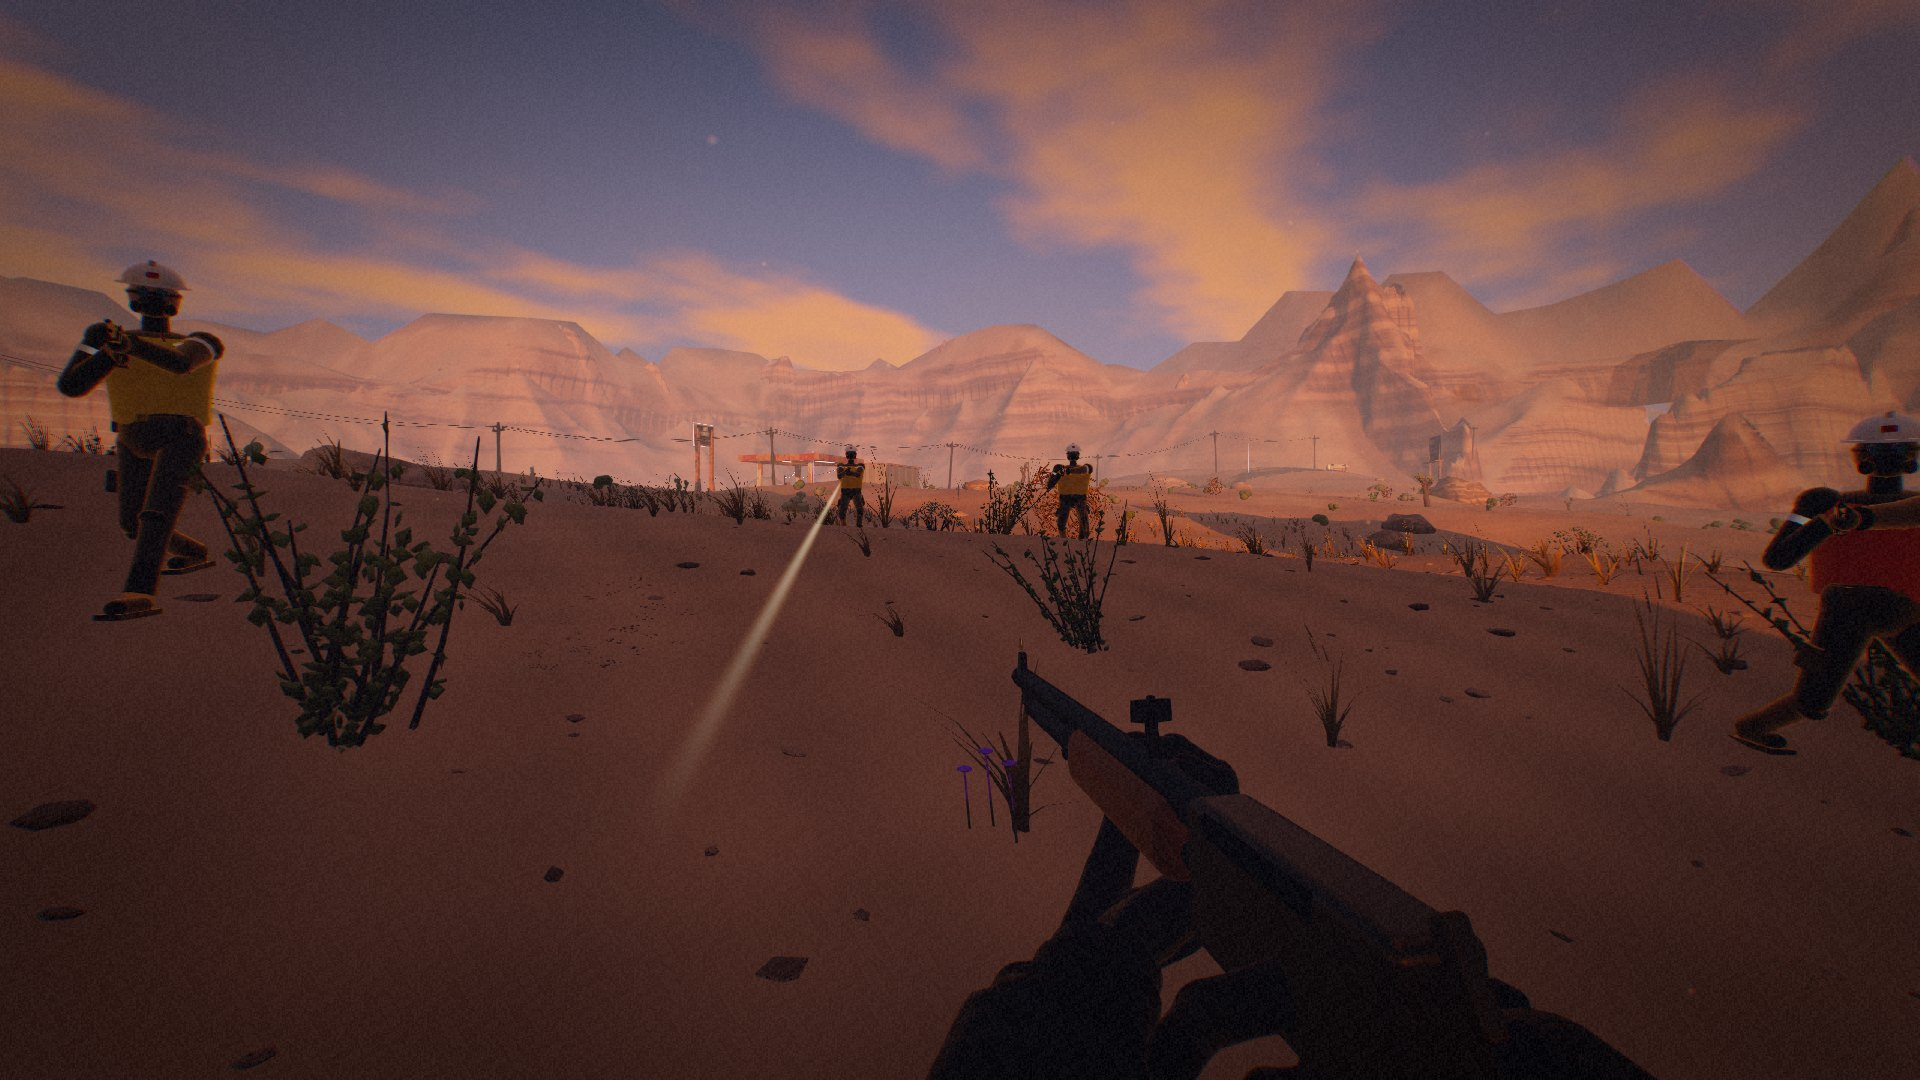
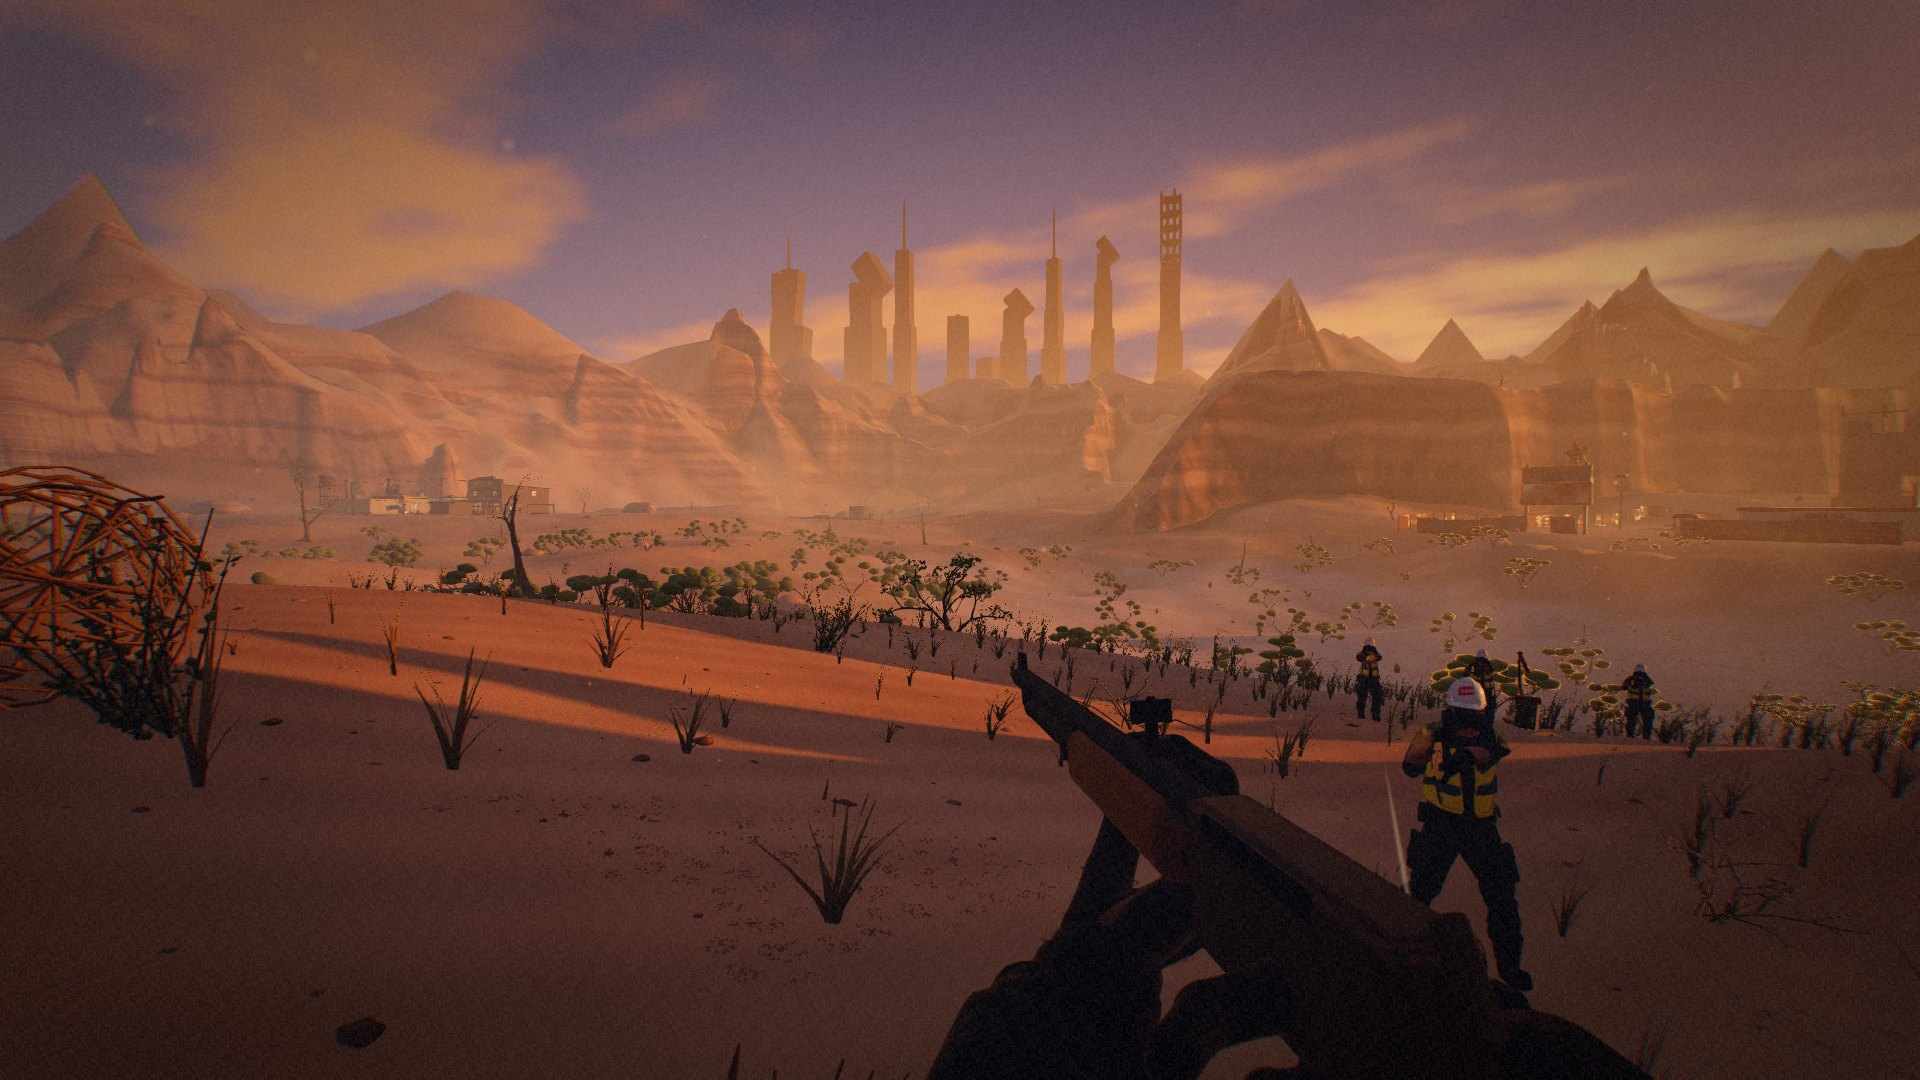
Website art with the real people: camp hero, firefight, Dry Creek
marketing-shots.mjs gains free-camera shots from the title screen (camp or
town space, no player or hands) and a BB_MEDIA_OUT preview folder. New hero:
the camp four round the fire at golden hour, on a long lens right of the
headline; camp.jpg the same fire at blue hour; place-creek.jpg Sol and Ren at
Dry Creek's fire at dusk; combat.jpg a Kade crew advancing in hi-vis with the
old city on the skyline. Share card regenerated. The site no longer claims
there are no asset packs at all.

diff --git a/index.html b/index.html
@@ -91,7 +91,7 @@
         <div class="copy">
           <div class="num">03</div>
           <h3>A living wasteland</h3>
-          <p>A full day/night cycle, dust storms rolling over the dunes, godrays through broken power lines and neon flickering out in the dark. Everything is generated in code: no textures, no asset packs.</p>
+          <p>A full day/night cycle, dust storms rolling over the dunes, godrays through broken power lines and neon flickering out in the dark. The desert itself is generated in code, and the people in it sit round the same fires you do.</p>
         </div>
       </article>
       <article class="feature rev">
